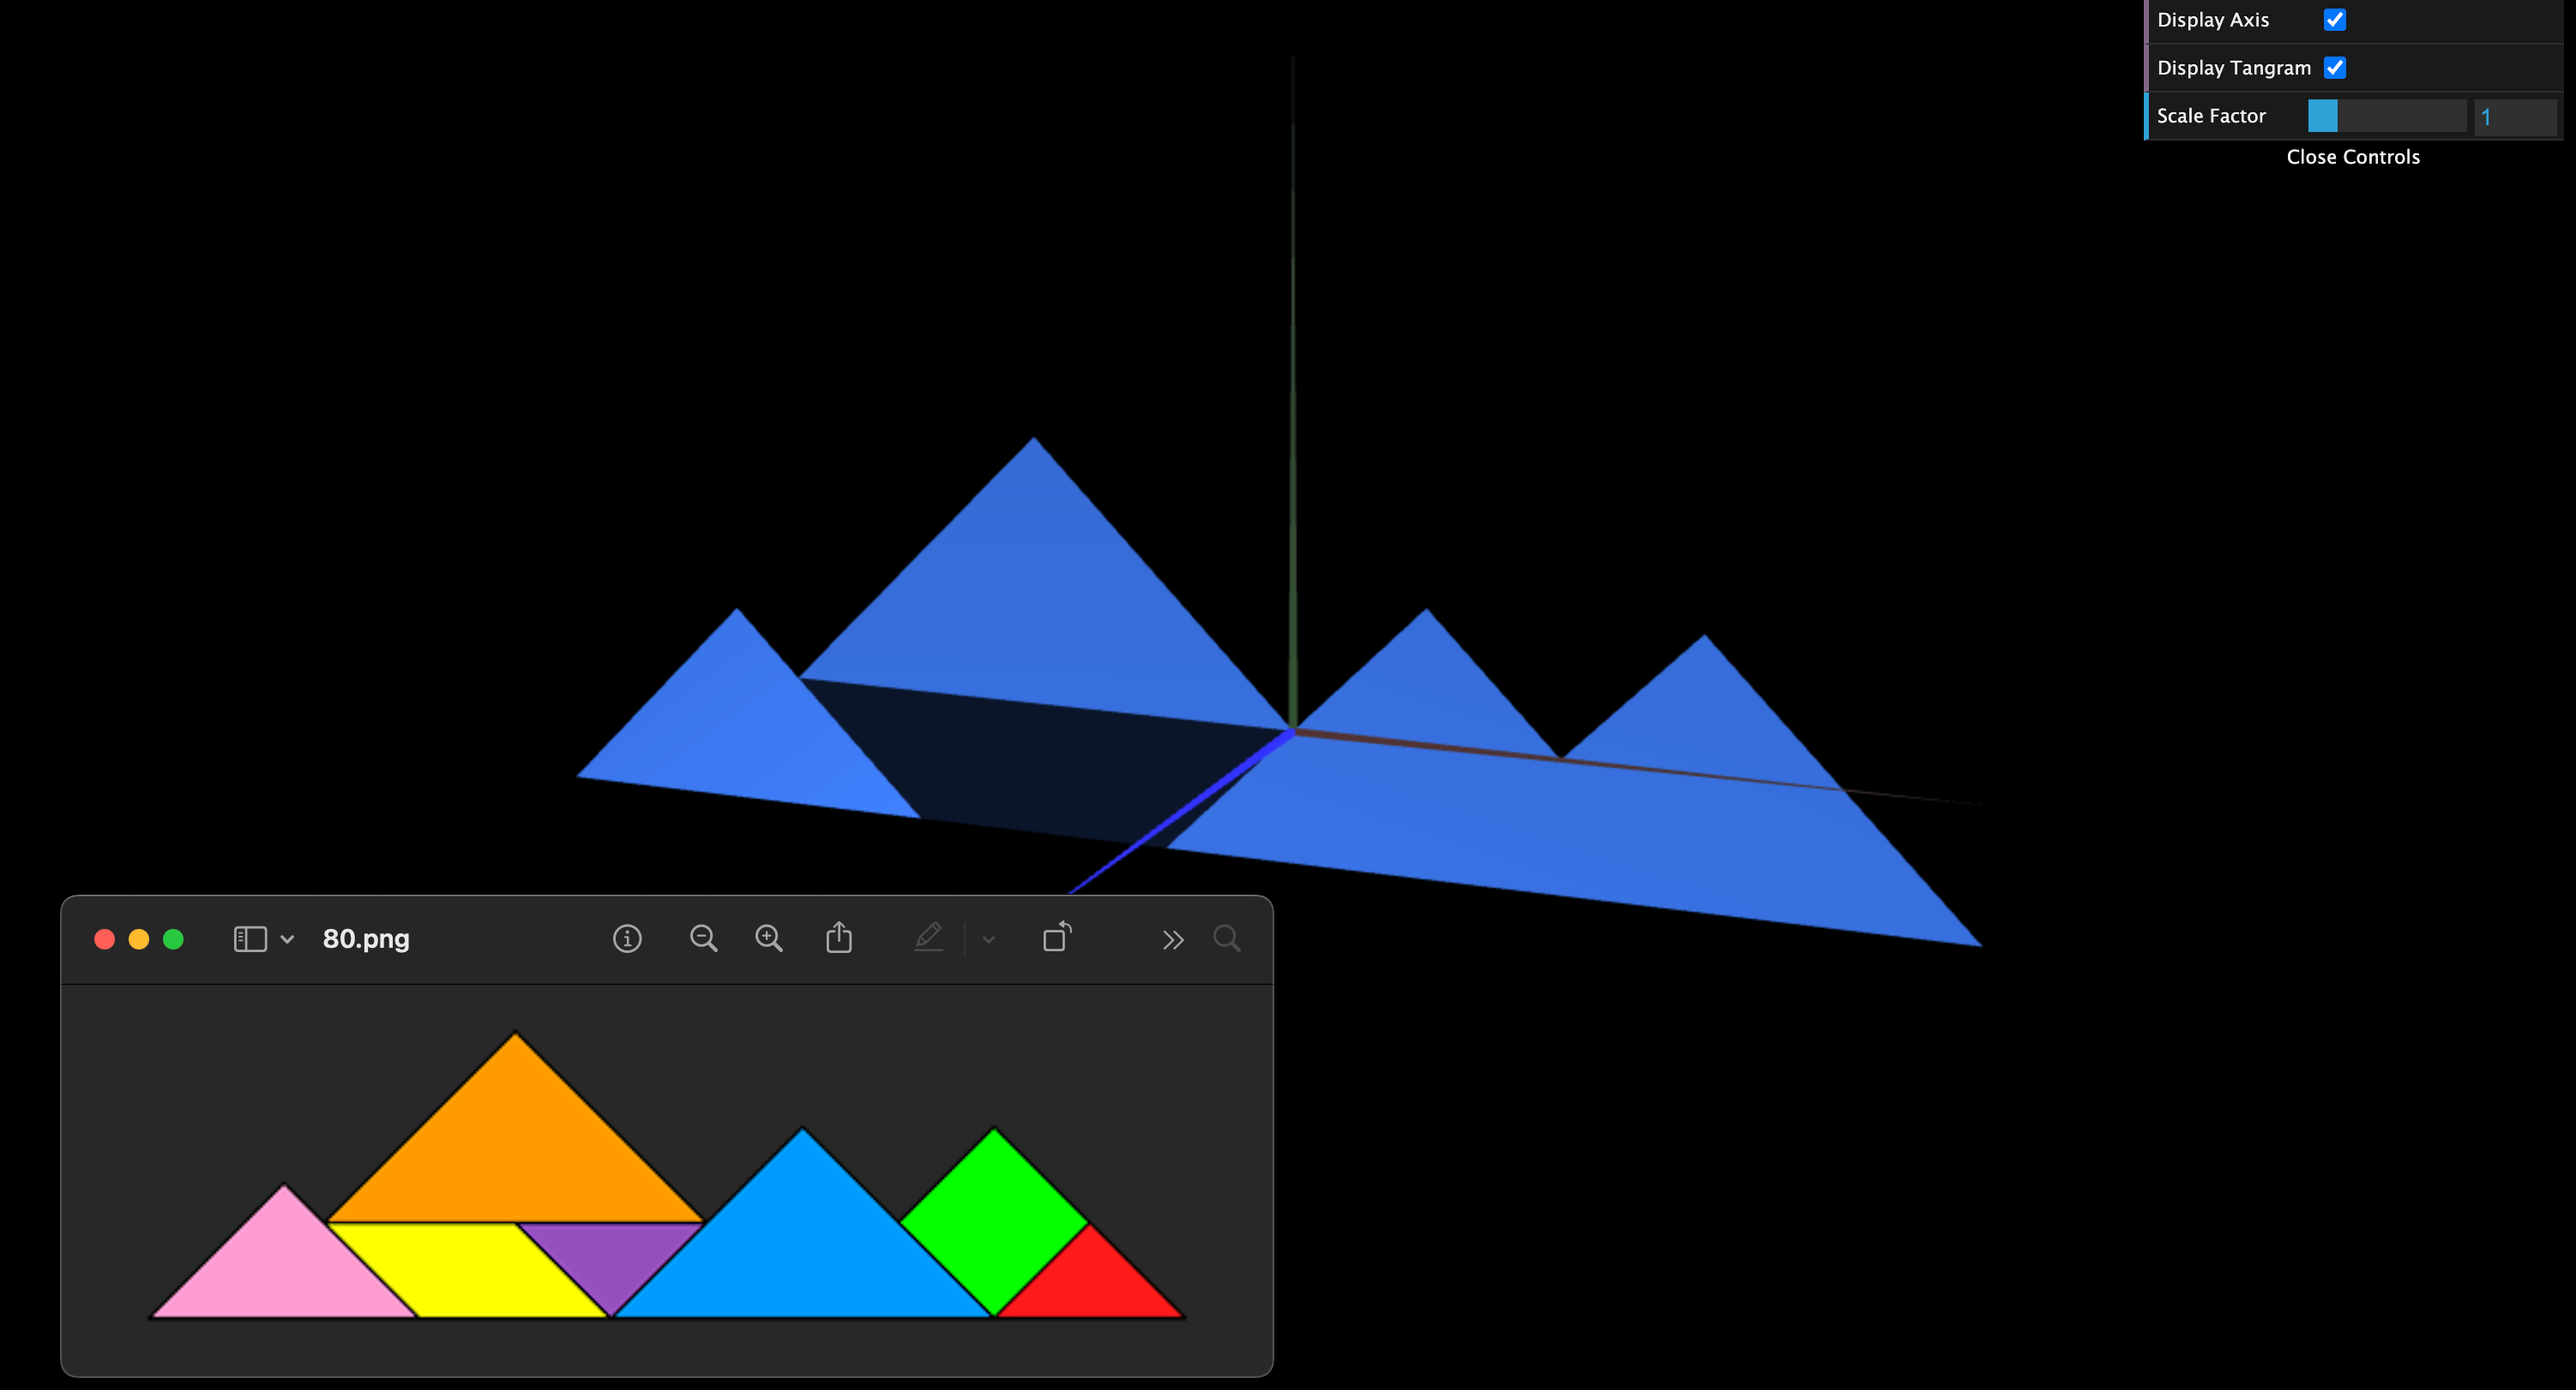
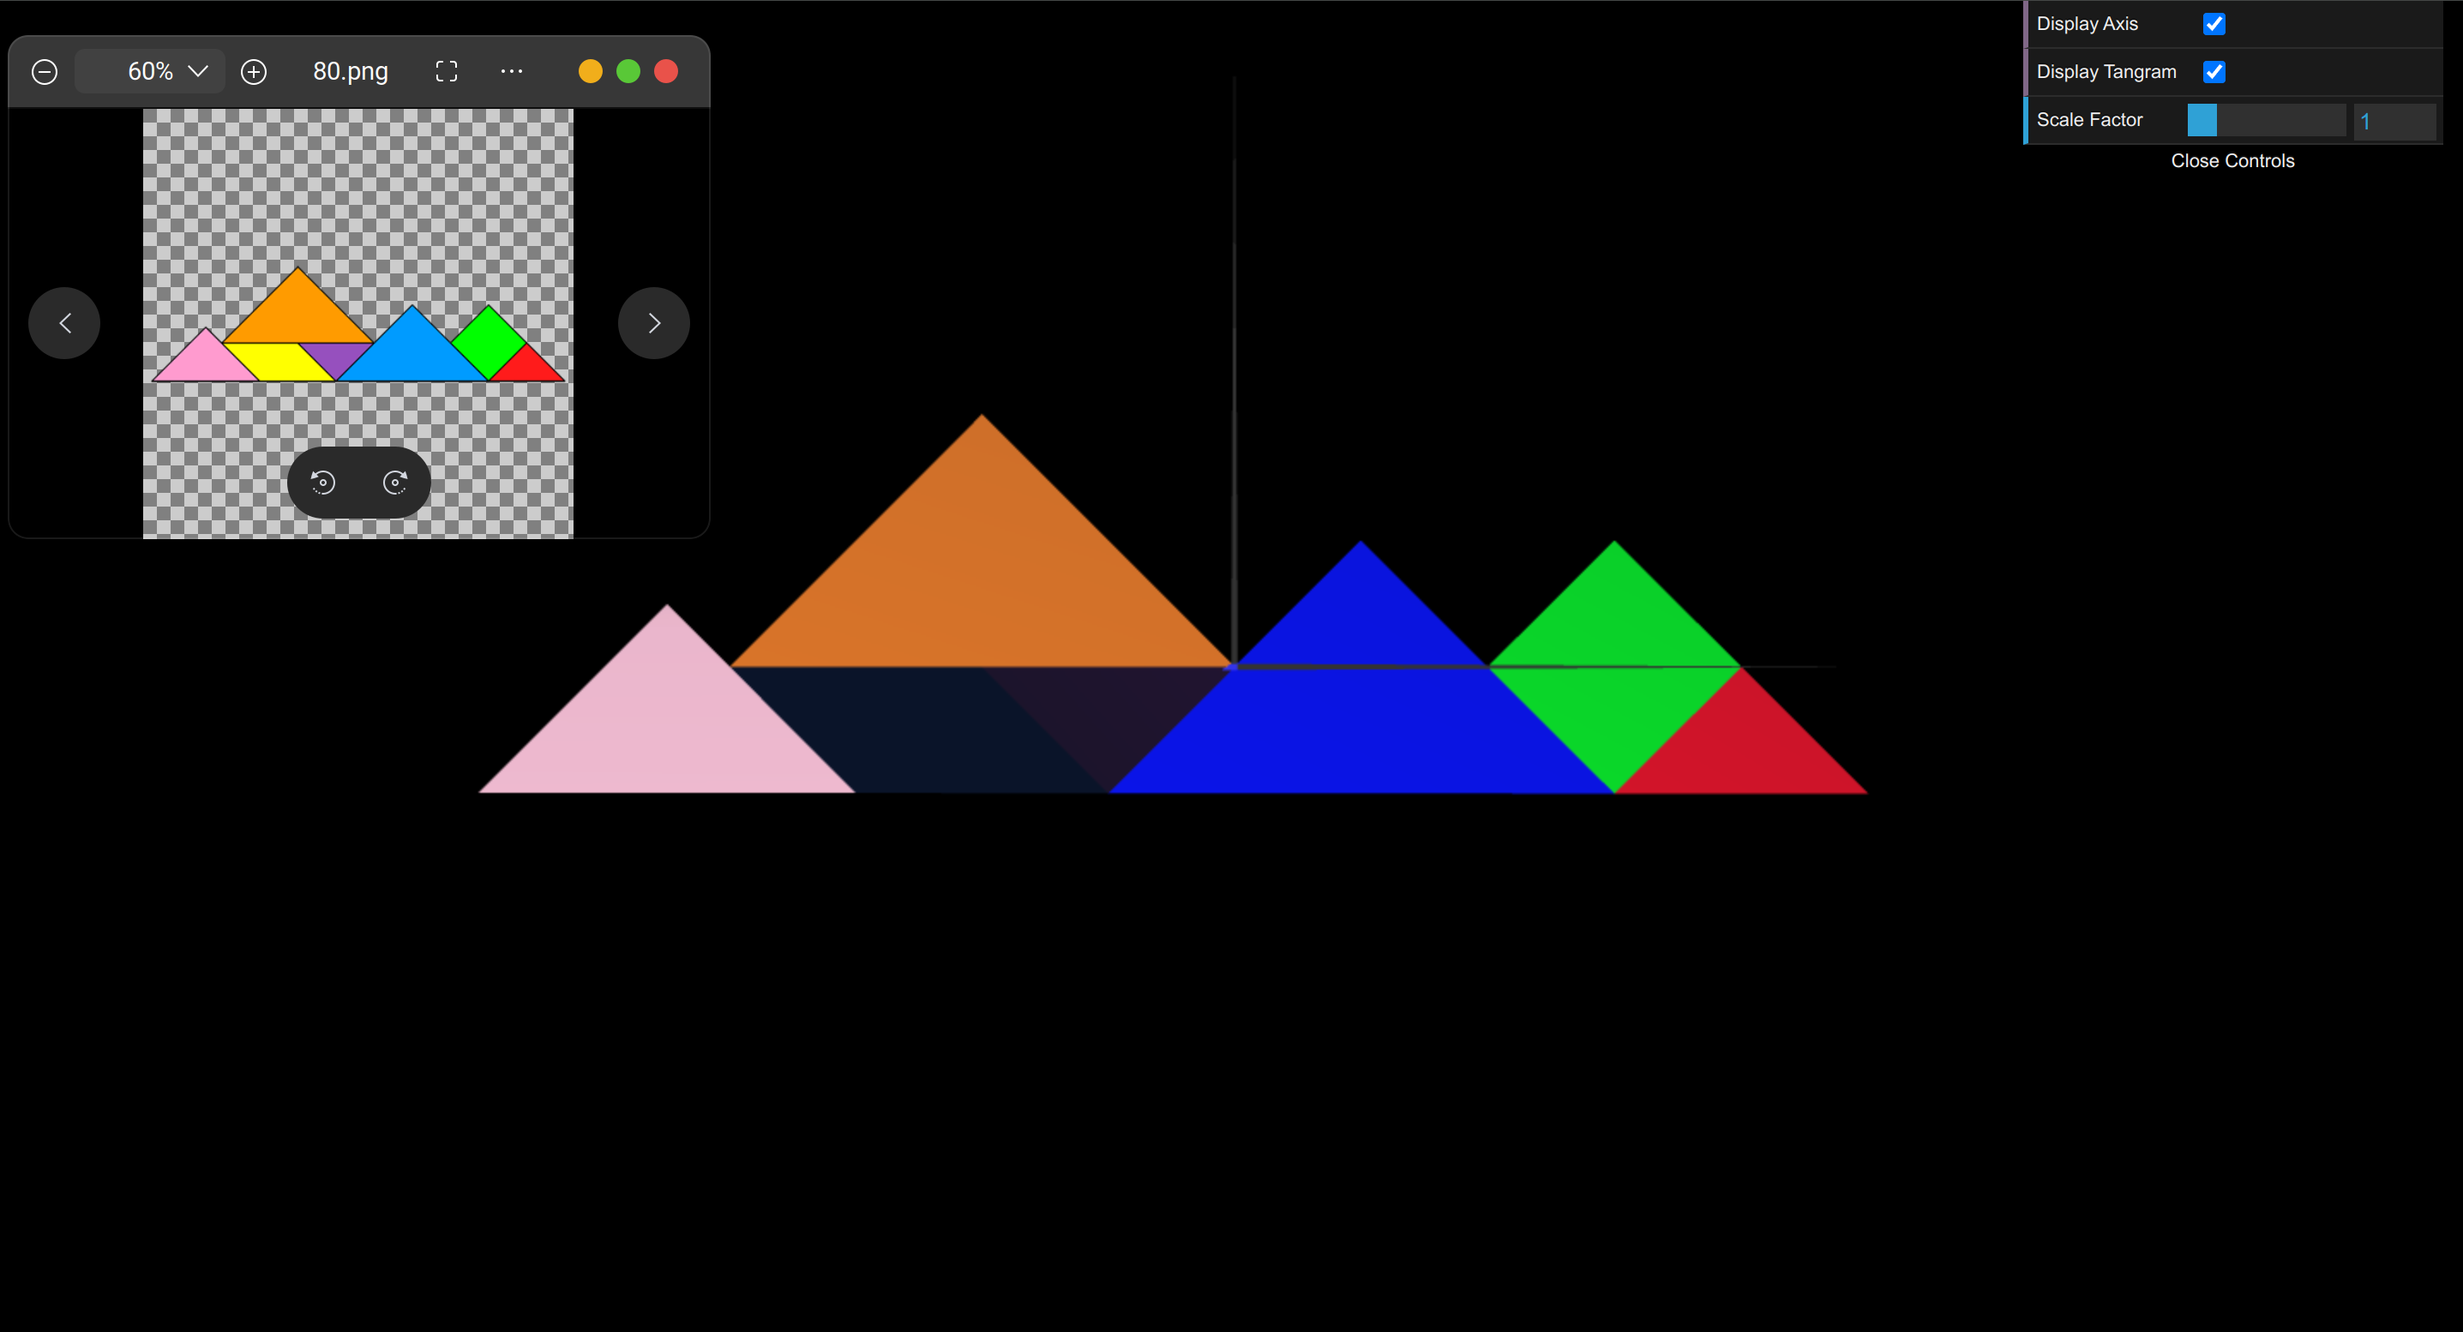
tp2: added colors to each figure and updated the screenshot 1

diff --git a/tp2/MyTangram.js b/tp2/MyTangram.js
@@ -22,39 +22,46 @@ export class MyTangram extends CGFobject {
 
     display() {
         this.scene.pushMatrix();
+        this.scene.setDiffuse(0, 1, 0, 1);  // green
         this.scene.translate(3, 0, 0);
         this.scene.diamond.display();
         this.scene.popMatrix();
 
         this.scene.pushMatrix();
+        this.scene.setDiffuse(1, 1, 0, 1);  // yellow
         this.scene.rotate(Math.PI, 0, 1, 0);
         this.scene.translate(1, -1, 0);
         this.scene.parallelogram.display();
         this.scene.popMatrix();
 
         this.scene.pushMatrix();
+        this.scene.setDiffuse(1, 0, 0, 1);  // red
         this.scene.translate(4, -1, 0);
         this.scene.triangleSmall.display();
         this.scene.popMatrix();
 
         this.scene.pushMatrix();
+        this.scene.setDiffuse(0.5, 0, 0.5, 1);  // purple
         this.scene.rotate(Math.PI, 0, 0, 1);
         this.scene.translate(1, 0, 0);
         this.scene.triangleSmall.display();
         this.scene.popMatrix();
 
         this.scene.pushMatrix();
+        this.scene.setDiffuse(1, 0.75, 0.8, 1);  // pink
         this.scene.translate(-4.5, -1, 0);
         this.scene.scale(1.5, 1.5, 1);
         this.scene.triangleSmall.display();
         this.scene.popMatrix();
 
         this.scene.pushMatrix();
+        this.scene.setDiffuse(0, 0, 1, 1);  // blue
         this.scene.translate(1, -1, 0);
         this.scene.triangleBig.display();
         this.scene.popMatrix();
 
         this.scene.pushMatrix();
+        this.scene.setDiffuse(1, 0.5, 0, 1);  // orange
         this.scene.translate(-2, 0, 0);
         this.scene.triangleBig.display();
         this.scene.popMatrix();
